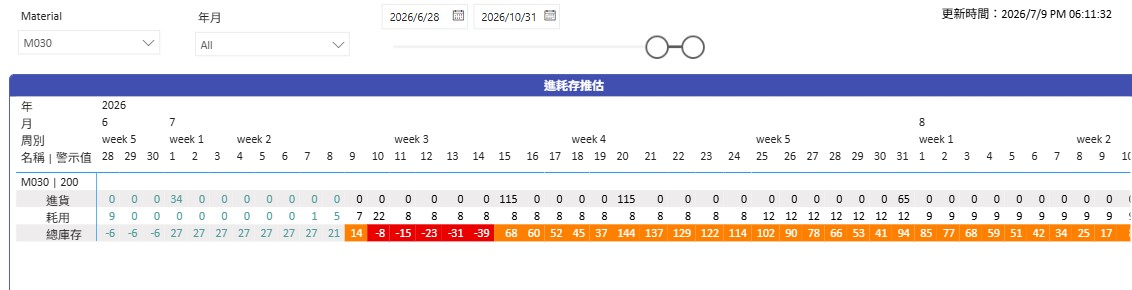
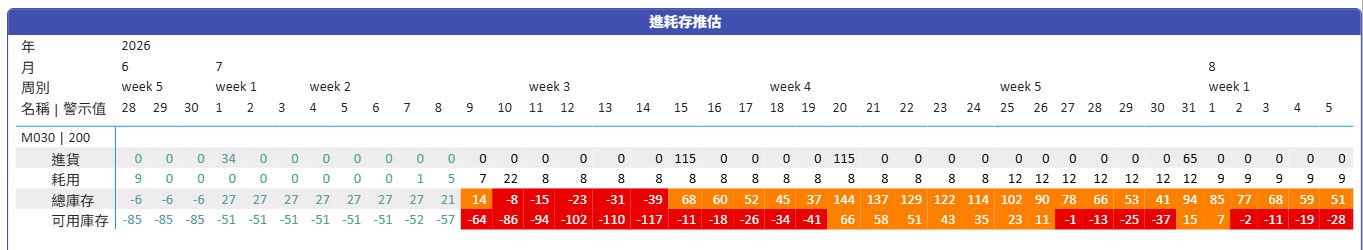
update README.md

diff --git a/scripts/model.py b/scripts/model.py
@@ -131,12 +131,12 @@ class PCIChain:
 
 class PCI(UserDict):
 
-    def __init__(self, Param, ProcurementData, ConsumeData, IventoryData):
+    def __init__(self, Param, ProcurementData, ConsumeData, InventoryData):
         self.data = {}
         self.Param = Param
         self.Procurement = ProcurementData
         self.Consume = ConsumeData
-        self.Inventory = IventoryData
+        self.Inventory = InventoryData
         self.create_chain()
 
     def create_chain(self):
@@ -222,11 +222,11 @@ class PCI(UserDict):
 
 if __name__ == '__main__':
 
-    from data import Param, ConsumeData, IventoryData, ProcurementData
+    from data import Param, ConsumeData, InventoryData, ProcurementData
     
     param = Param()
     c = ConsumeData(param)
-    i = IventoryData(param)
+    i = InventoryData(param)
     p = ProcurementData(param)
 
     model = PCI(param, p, c, i)

diff --git a/README.md b/README.md
@@ -2,7 +2,7 @@
 
 這是一個用於製造業原料管理的資料分析與決策支援專案。系統整合庫存、採購、耗用、BOM 與生產計畫等資料，透過 Python 建立每日進耗存推估邏輯，並以 Power BI Dashboard 呈現未來庫存趨勢、缺料風險與庫存告警，協助採購、生產與管理單位提前掌握原料風險。
 
-本 repository 作為作品集展示用途，重點放在**問題定義、系統架構、資料流程、預測邏輯與 Dashboard 設計**。由於正式環境涉及多個內部系統、資料庫與業務規則，本公開版本不提供可直接執行的完整資料與環境設定。
+本 repository 作為作品集展示用途，重點放在**問題定義、系統架構、資料流程、推估邏輯與 Dashboard 設計**。由於正式環境涉及多個內部系統、資料庫與業務規則，本公開版本不提供可直接執行的完整資料與環境設定。
 
 ---
 
@@ -129,6 +129,79 @@ flowchart LR
 
 ---
 
+## 業務邏輯
+
+本系統以「確保生產投料不中斷」為核心目標，整合庫存、採購進貨、BOM、生產計畫與排程資料，建立每日原料進耗存推估邏輯，協助採購、生產與管理單位提前掌握未來庫存風險。
+
+### 1. 庫存基礎計算
+
+系統以目前總庫存作為推估起點，並依據管制庫存規則扣除暫不可使用的庫存量，計算實際可支配的可用庫存。
+
+```text
+可用庫存 = 總庫存 - 管制庫存
+```
+
+其中，管制庫存包含已被限制使用、尚待檢驗、尚未完成入庫條件，或因品質與流程狀態暫時不可投料的原料。
+
+### 2. 進貨資料整合
+
+整合採購平台與進貨安排資料，依據採購單號比對不同來源的進貨資訊。
+
+若已有明確進貨安排，則以實際安排的日期與數量為準；若尚未有進貨安排，則依採購資料中的交期、進口日期或合約交貨日推估未來進貨時點。
+
+對於大批量進貨，系統會依作業規則將進貨量拆分到多個工作日，避免將整批物料集中在單一天入庫，讓庫存推估更貼近實際作業節奏。
+
+### 3. 耗用量推估
+
+耗用推估會依預測期間採用不同資料基礎：
+
+| 預測期間 | 耗用推估邏輯 |
+|---|---|
+| 近一週 | 依據 BOM 與實際生產排程推估短期耗用 |
+| 當月後續期間 | 依據 BOM、週生產計畫與工作天數推估每日耗用 |
+| 下月與下下月 | 依據 BOM、月生產計畫與工作天數推估每日耗用 |
+
+透過不同時間尺度的資料組合，系統可以同時兼顧短期排程準確性與中期生產計畫的預測需求。
+
+### 4. 每日庫存推移
+
+系統以每日為單位，逐日推估每項原料的未來庫存變化。
+
+```text
+T 日總庫存推估值 = T-1 日總庫存 + T 日進貨 - T 日耗用
+```
+
+```text
+T 日可用庫存推估值 = T-1 日可用庫存 + T 日進貨 - T 日耗用
+```
+
+此邏輯可將分散的庫存、採購與生產資料轉換成連續時間序列，支援未來多月期的庫存趨勢分析。
+
+### 5. 風險判斷與告警
+
+系統會將未來每日庫存推估值與安全水位、警示值及零庫存門檻進行比對，產生不同等級的庫存風險訊號。
+
+| 警示等級 | 業務意義 |
+|---|---|
+| 高風險 | 短期內庫存可能跌破零，存在立即斷料風險 |
+| 中風險 | 未來一段期間內庫存可能跌破零，需要提前追蹤進貨與排程 |
+| 預警 | 庫存低於警示水位，需持續觀察並評估是否提前補料 |
+
+警示結果會透過報表與 Teams 通知提供給相關單位，使採購、生產與管理者能夠在風險實際發生前採取行動。
+
+### 6. 報表與決策支援
+
+最終推估結果會輸出至 Power BI Dashboard，提供以下管理視角：
+
+- 庫存預測趨勢
+- 庫存異常警示
+- 斷料風險警示
+- 每日預估矩陣
+
+透過此流程，系統將原本分散於多個內部系統的資料，轉換成可追蹤、可預警、可行動的庫存管理資訊。
+
+---
+
 ## Dashboard 展示
 
 ### 1. 庫存預測趨勢
@@ -173,9 +246,9 @@ flowchart LR
 
 ## 技術
 
-- **Python**：資料清理、資料整合、庫存推移與風險判斷。
+- **Python**：資料清理、資料整合與庫存推移。
 - **SQL**：來源資料查詢與資料抽取邏輯整理。
-- **Power BI**：Dashboard 視覺化、趨勢分析、告警清單與明細查詢。
+- **Power BI**：Dashboard 視覺化、趨勢分析、警示清單與明細查詢。
 - **資料模型設計**：將採購、庫存、耗用與生產計畫整合至可分析的日期與原料維度。
 
 ---

diff --git a/scripts/README.md b/scripts/README.md
@@ -5,3 +5,13 @@ This folder contains a simplified and sanitized version of the production pipeli
 The code is provided for portfolio review only. It illustrates how the project was organized into configuration, data extraction, forecasting logic, and output steps.
 
 Because the production version depends on internal databases, private libraries, scheduled jobs, and notification services, this public version is not designed to be executed directly.
+
+## Module Overview
+
+| File | Purpose |
+|---|---|
+| `config.py` | 管理環境設定與資料庫連線設定。 |
+| `data.py` | 負責來源資料擷取、清理與整理，包含庫存、採購與耗用資料。 |
+| `model.py` | 建立每日進耗存推移邏輯，計算未來每日庫存與風險狀態。 |
+| `main.py` | Pipeline 入口，串接資料載入、模型計算與結果輸出。 |
+| `utils.py` | 放置共用工具函式。 |